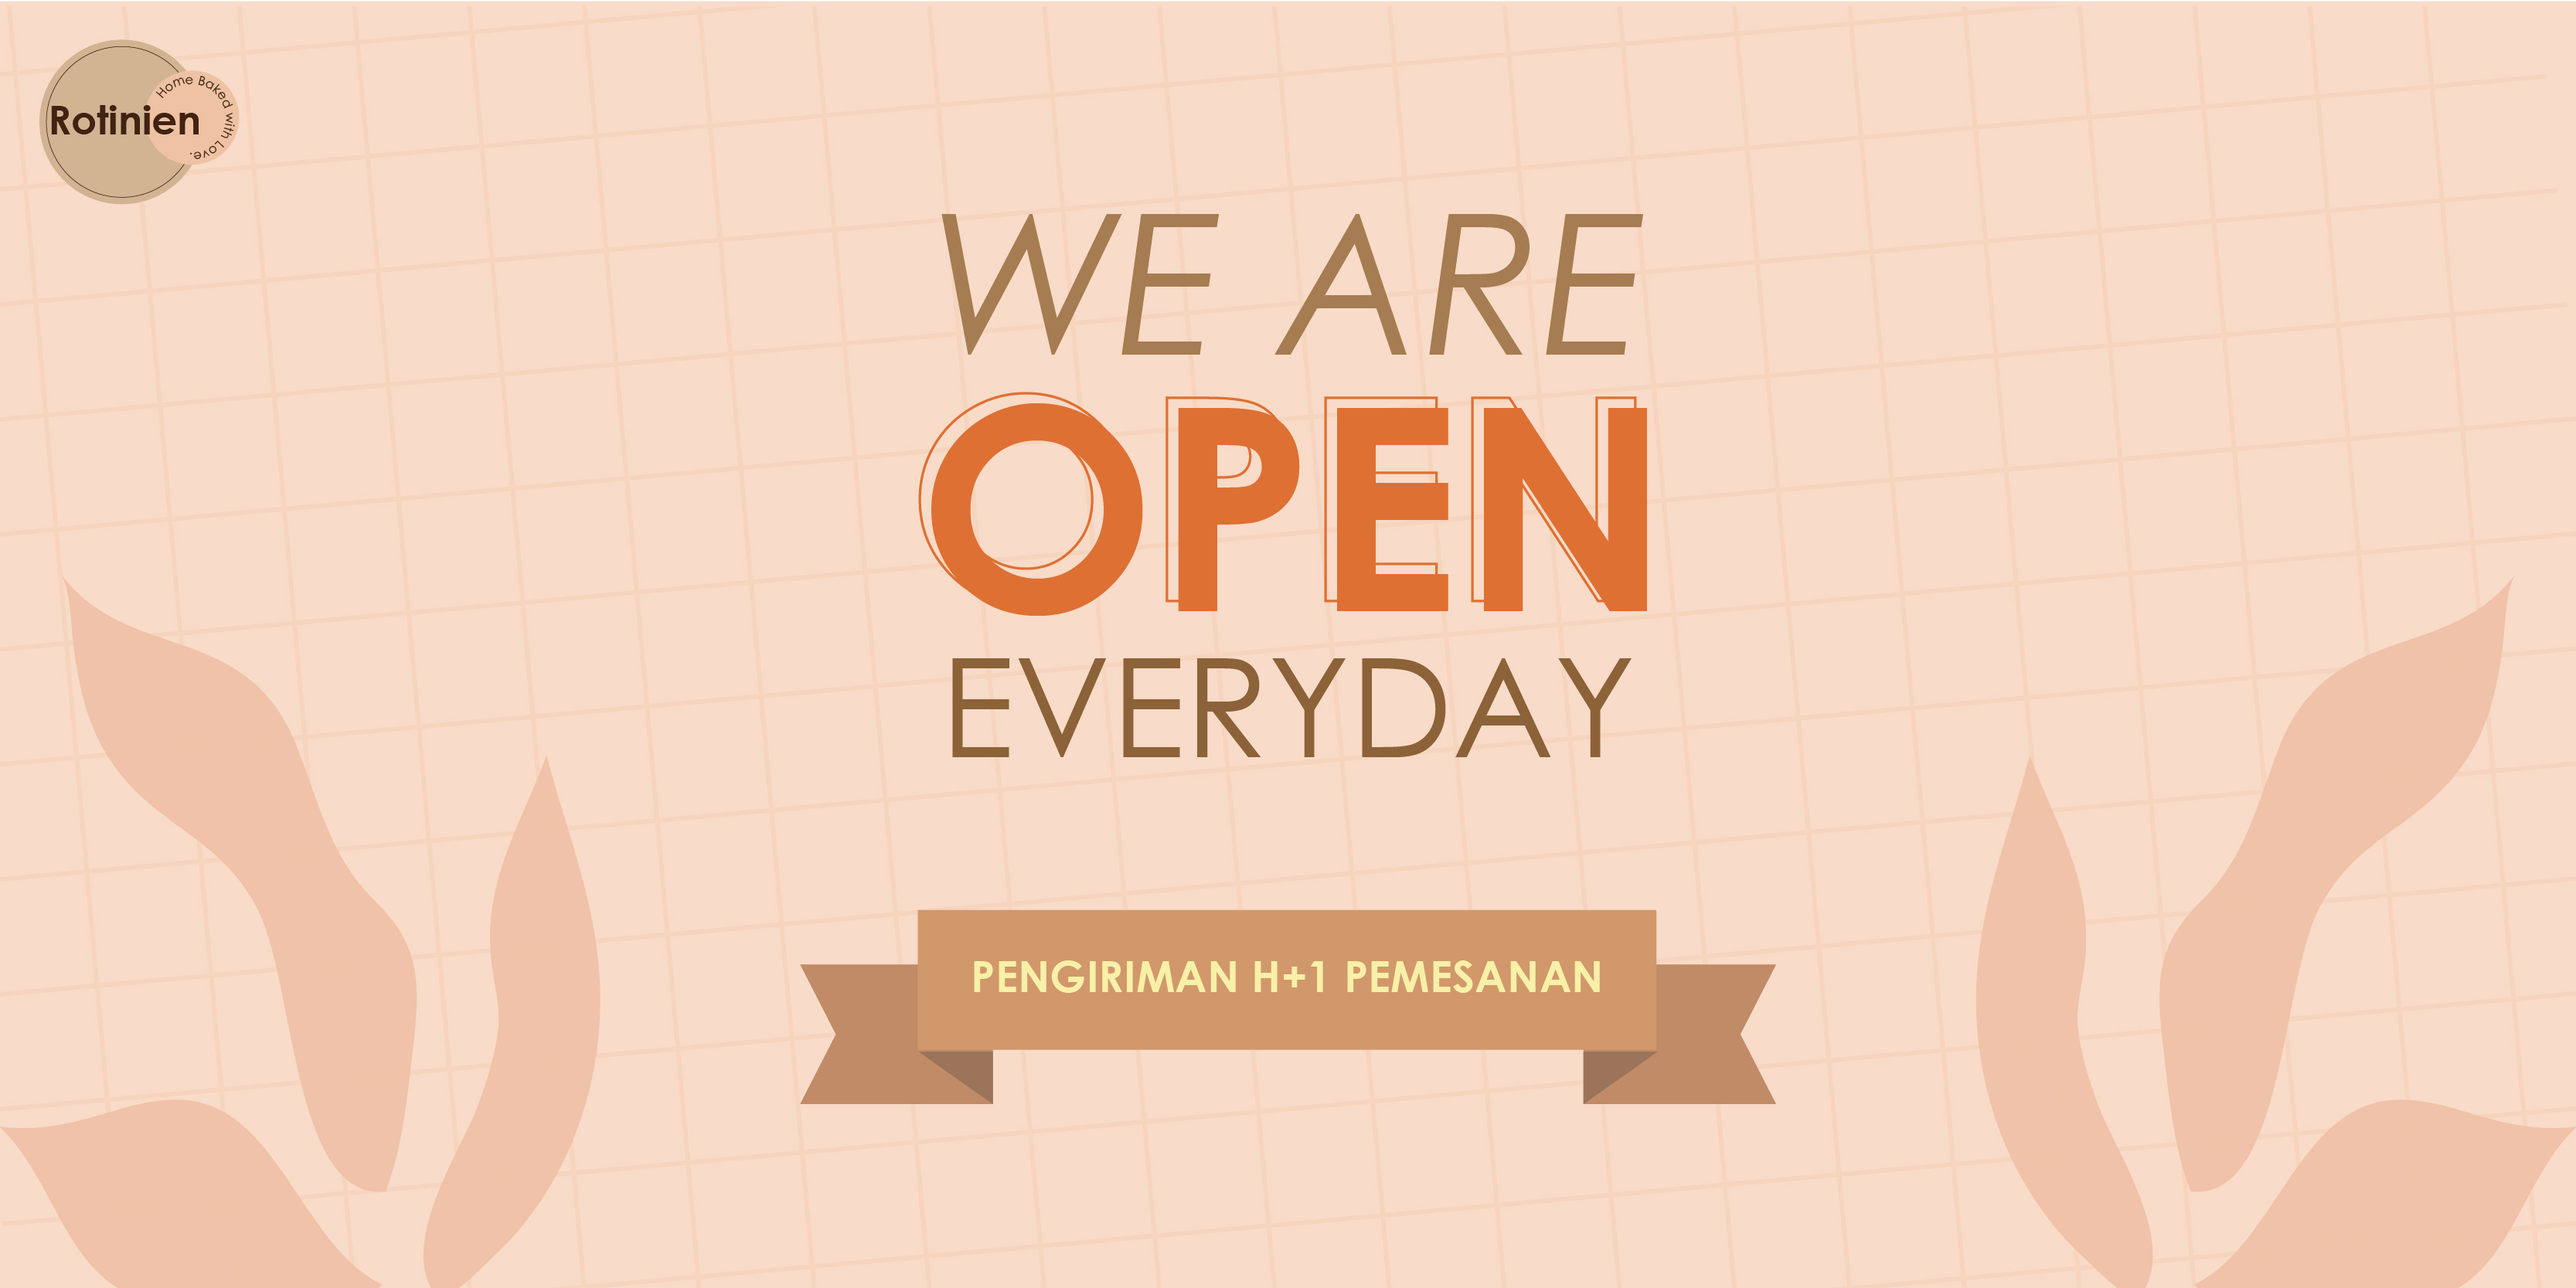
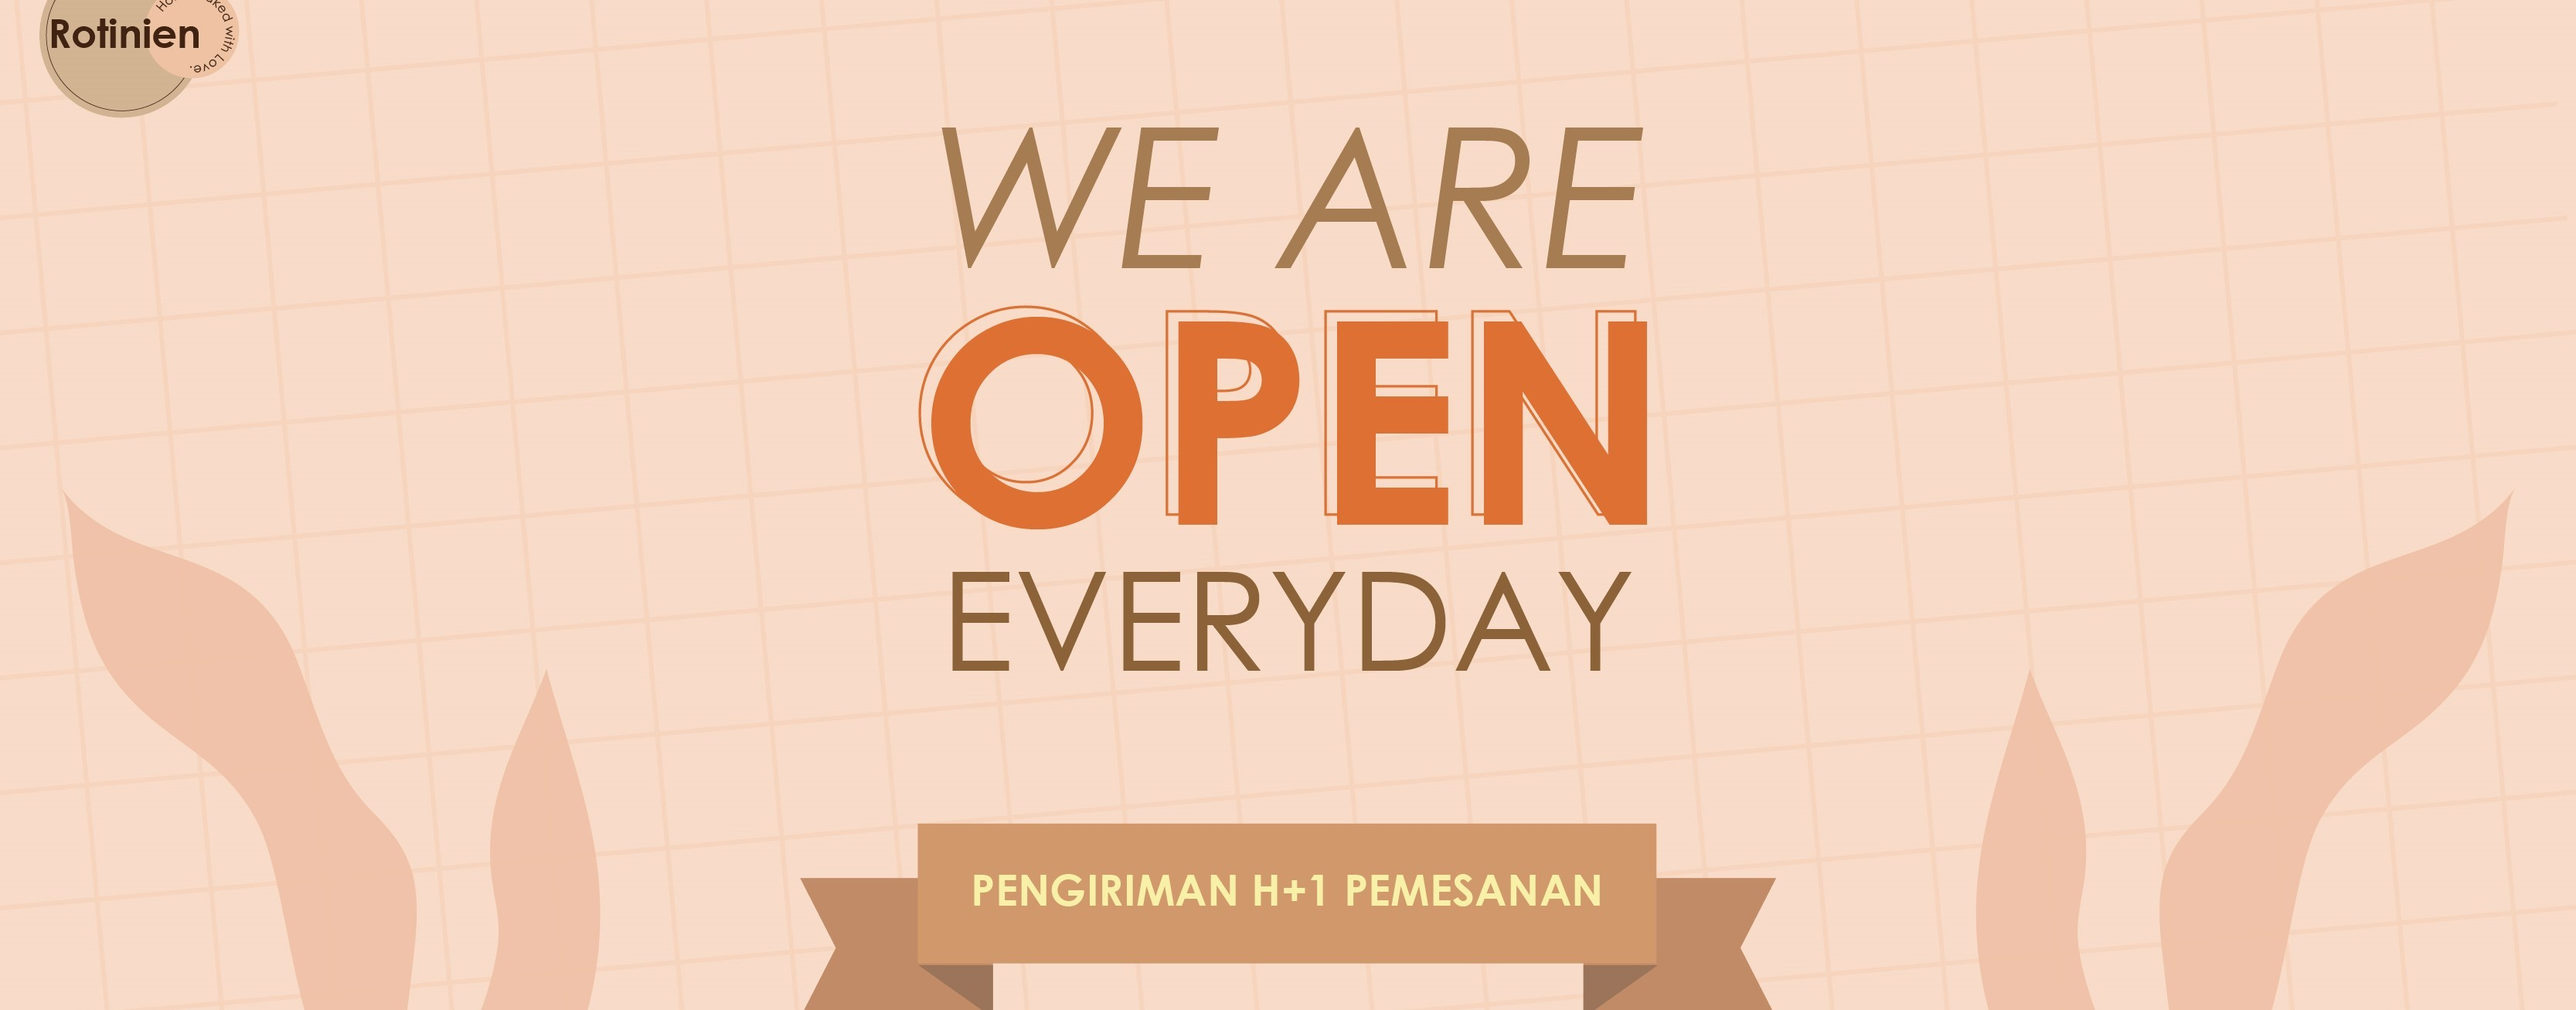
hadeh cape

diff --git a/index.html b/index.html
@@ -33,7 +33,7 @@
 
         <!-- FOTO DASHBOARD -->
         <div class="video-dashboard">
-            <video src="../ASSET-UAS/video index coy.mp4" autoplay muted></video>
+            <video src="../UAS_PWD/ASSET-UAS/video index coy.mp4" autoplay muted></video>
         </div>
 
         <!-- TEXT-CHANGING -->
@@ -54,7 +54,7 @@
                     <h2>About Us</h2>
                 </div>
                 <div class="about-us-body">
-                    <img src="../ASSET-UAS/Qmark.png" alt="Question Mark">
+                    <img src="../UAS_PWD/ASSET-UAS/Qmark.png" alt="Question Mark">
                     <div class="text-selengkapnya">
                         <p align="justify">Rotinien adalah perusahaan kecil skala perumahan yang menerima pemesanan
                             roti, pastry, dsb.
@@ -88,18 +88,18 @@
                 <div class="menumakanan-content">
                     <h1>Jangan lupa baca doa <br> kawan-kawan!</h1>
                     <div class="item1"><a href="#" class="popupButton" data-popup="popup1">
-                            <img src="../ASSET-UAS/menumakanan1bg.jpeg" alt="Roti Gandum">
+                            <img src="../UAS_PWD/ASSET-UAS/menumakanan1bg.jpeg" alt="Roti Gandum">
                             <div class="item-name">Roti Goreng</div>
                         </a></div>
                     <div class="item2"><a href="#" class="popupButton" data-popup="popup2">
-                            <img src="../ASSET-UAS/Roti Gandum 2.jpeg" alt="Roti Gandum Cokelat">
+                            <img src="../UAS_PWD/ASSET-UAS/Roti Gandum 2.jpeg" alt="Roti Gandum Cokelat">
                             <div class="item-name">Roti Gandum</div>
                         </a></div>
                     <div class="item3"><a href="#" class="popupButton" data-popup="popup3">
-                            <img src="../ASSET-UAS/Pastry Pizza.jpeg" alt="Pastry Pizza">
+                            <img src="../UAS_PWD/ASSET-UAS/Pastry Pizza.jpeg" alt="Pastry Pizza">
                             <div class="item-name">Pastry Pizza</div>
                         </a></div>
-                    <div class="lihatlainnya"><a href="#">Lihat menu lainnya!</a></div>
+                    <div class="lihatlainnya"><a href="menu.html">Lihat menu lainnya!</a></div>
                 </div>
             </div>
         </div>
@@ -108,7 +108,7 @@
 
         <div id="popup1" class="popup">
             <div class="item1A">
-                <img src="../ASSET-UAS/FeedsInsta_Roti Goreng-01.jpg" alt="Roti Goreng">
+                <img src="../UAS_PWD/ASSET-UAS/FeedsInsta_Roti Goreng-01.jpg" alt="Roti Goreng">
             </div>
                 <button class="closePopup">&times;</button>
                 <h1>Roti Goreng</h1>
@@ -119,7 +119,7 @@
     
         <div id="popup2" class="popup">
             <div class="item2A">
-                <img src="../ASSET-UAS/Roti Gandum 1.jpeg" alt="Roti Gandum">
+                <img src="../UAS_PWD/ASSET-UAS/Roti Gandum 1.jpeg" alt="Roti Gandum">
             </div>
             <button class="closePopup">&times;</button>
             <h1>Roti Gandum</h1>
@@ -127,7 +127,7 @@
         </div>
         <div id="popup3" class="popup">
             <div class="item3A"> 
-                <img src="ASSET-UAS/Pastry Pizza.jpeg" alt="Pastry Pizza">
+                <img src=/UAS_PWD"ASSET-UAS/Pastry Pizza.jpeg" alt="Pastry Pizza">
             </div>
             <button class="closePopup">&times;</button>
             <h1>Pastry Pizza</h1>
@@ -145,7 +145,7 @@
                 <h2>Promo Menarik</h2>
             </div>
             <div class="item-promo"><a href="#">
-                    <img src="../ASSET-UAS/eventbg.jpg" alt="Pastry Pizza">
+                    <img src="../UAS_PWD/ASSET-UAS/eventbg.jpg" alt="Pastry Pizza">
                     <div class="item-name">Promo Ramadhan</div>
                 </a></div>
             <div class="lihatlainnya"><a href="#">Lihat promo lainnya!</a></div>
@@ -167,7 +167,7 @@
         <div id="footer">
             <!-- LOGO -->
             <div class="footer-container">
-                <img src="../ASSET-UAS/logo-rotinien.png" alt="Footer Logo" class="footer-logo">
+                <img src="../UAS_PWD/ASSET-UAS/logo-rotinien.png" alt="Footer Logo" class="footer-logo">
             </div>
 
             <!-- GARIS -->

diff --git a/menu.html b/menu.html
@@ -1,0 +1,61 @@
+<!DOCTYPE html>
+<html lang="en">
+<head>
+    <meta charset="UTF-8">
+    <meta name="viewport" content="width=device-width, initial-scale=1.0">
+    <title>Document</title>
+    <link rel="stylesheet" href="styles.css">
+</head>
+<body>
+    <div class="navbar">
+        <div class="logo-container">
+            <a href="index.html">Rotinien</a>
+        </div>
+        <div class="menu">
+            <a href="#about">About Us</a>
+            <a href="#menu">Menu</a>
+            <a href="#promo">Promo</a>
+        </div>
+        <div class="login">
+            <a href="login.html" id="loginButton">
+                <div class="loginbutton">Login</div>
+            </a>
+        </div>
+    </div>
+    <!-- FOTO DASHBOARD -->
+    <div class="video-dashboard">
+        <img src="../UAS_PWD/ASSET-UAS/dashboard-opener.jpg"></img>
+    </div>
+
+    <!-- TEXT-CHANGING -->
+    <div class="text-changing-container">
+        <div class="text-changing">
+            <span>Home baked with Love! &lt;3</span>
+        </div>
+    </div>
+    <div class="konten">
+        <div id="buttons">
+            <button class="btn" onclick="filterObjects('all')">Show All</button>
+            <button class="btn" onclick="filterObjects('fruit')">Fruits</button>
+            <button class="btn" onclick="filterObjects('colors')">Colors</button>
+            <button class="btn" onclick="filterObjects('cars')">Cars</button>
+            <button class="btn" onclick="filterObjects('animals')">Animals</button>
+        </div>
+        <div class="objects">
+            <div class="box cars">Toyota</div>
+            <div class="box cars">Honda</div>
+            <div class="box colors fruit">Orange</div>
+            <div class="box animals">Snake</div>
+            <div class="box colors">Green</div>
+            <div class="box fruit">Banana</div>
+            <div class="box colors">Red</div>
+            <div class="box fruit">Pear</div>
+            <div class="box fruit">Apple</div>
+            <div class="box cars">Volvo</div>
+            <div class="box animals">Bear</div>
+            <div class="box animals">Monkey</div>
+        </div>
+    </div>
+    <script src="menu.js"></script>
+</body>
+</html>

diff --git a/styles.css b/styles.css
@@ -117,7 +117,6 @@ body {
 /* video dashboard */
 .video-dashboard {
   text-align: center;
-  background-color: #ffebcd;
   padding: 0px 0px;
   position: relative;
   z-index: -999;
@@ -127,6 +126,9 @@ body {
 .video-dashboard video {
   width: 100%;
   height: auto;
+}
+.video-dashboard img {
+  width: 100%;
 }
 
 /* TEXT-CHANGING */
@@ -143,7 +145,7 @@ body {
   overflow: hidden;
   position: relative;
   height: 250px;
-  margin-top: -330px;
+  margin-top: -200px;
 }
 
 .text-changing {
@@ -333,7 +335,10 @@ body {
 }
 
 .konten {
-  margin: 30px 240px;
+  height: 100%;
+  margin: 0px 240px;
+  background-color: white;
+  z-index: 100;
 }
 
 .menumakanan-content h1 {
@@ -698,4 +703,30 @@ body {
   padding: 20px;
   width: 50%;
   transition: .5s;
+}
+
+/* Halaman Menu */
+.box{
+  float:left;
+  background-color: whitesmoke;
+  color: rgb(0, 0, 0);
+  width: 454px;
+  height: 500px;
+  line-height: 125px;
+  text-align: center;
+  margin: 10px;
+  display: none;
+}
+
+.show{
+  display: block;
+}
+
+.btn{
+  border: none;
+  outline: none;
+  margin: 20px 0;
+  padding: 12px 16px;
+  background-color: white;
+  cursor: pointer;
 }

diff --git a/menu.js b/menu.js
@@ -1,0 +1,34 @@
+filterObjects("all");
+
+function filterObjects(c) {
+    var x, i;
+    x = document.getElementsByClassName("box");
+    if (c == "all") c = "";
+    for (i = 0; i < x.length; i++) {
+        removeClass(x[i], "show");
+        if (x[i].className.indexOf(c) > -1) addClass(x[i], "show");
+    }
+}
+
+function addClass(element, name) {
+    var i, arr1, arr2;
+    arr1 = element.className.split(" ");
+    arr2 = name.split(" ");
+    for (i = 0; i < arr2.length; i++) {
+        if (arr1.indexOf(arr2[i]) == -1) {
+            element.className += " " + arr2[i];
+        }
+    }
+}
+
+function removeClass(element, name) {
+    var i, arr1, arr2;
+    arr1 = element.className.split(" ");
+    arr2 = name.split(" ");
+    for (i = 0; i < arr2.length; i++) {
+        while (arr1.indexOf(arr2[i]) > -1) {
+            arr1.splice(arr1.indexOf(arr2[i]), 1);
+        }
+    }
+    element.className = arr1.join(" ");
+}
